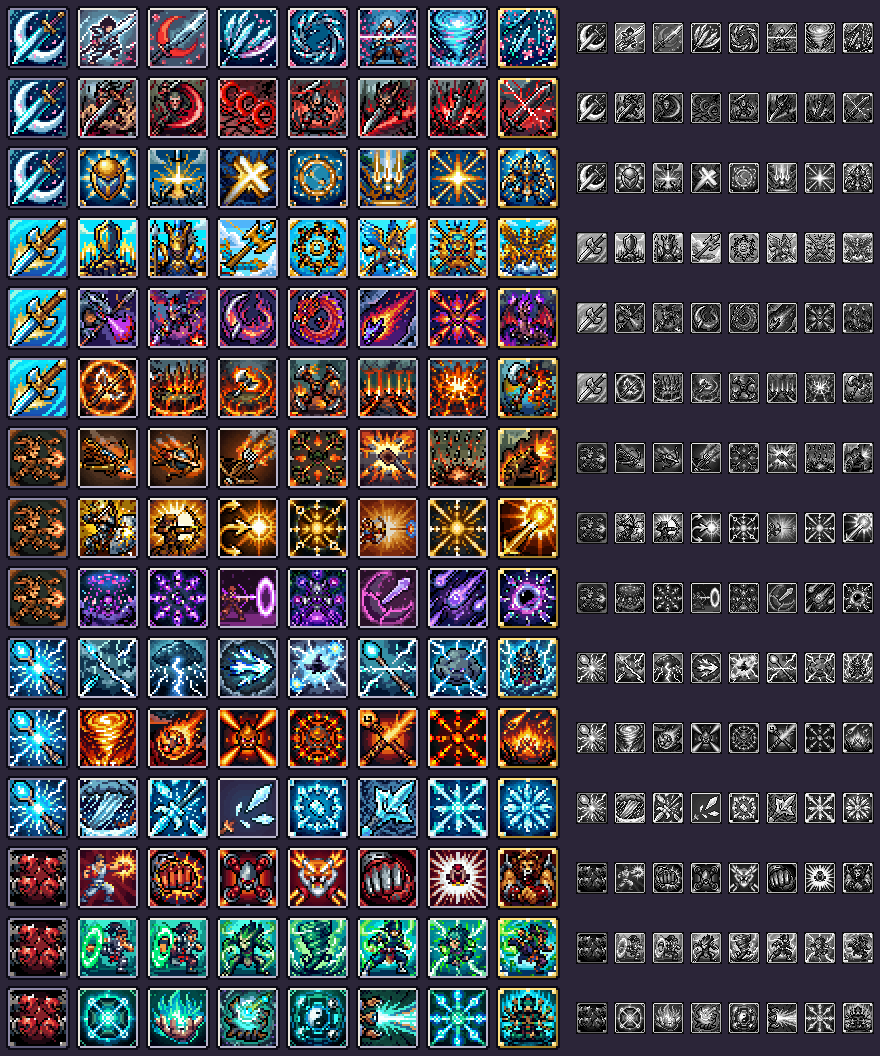
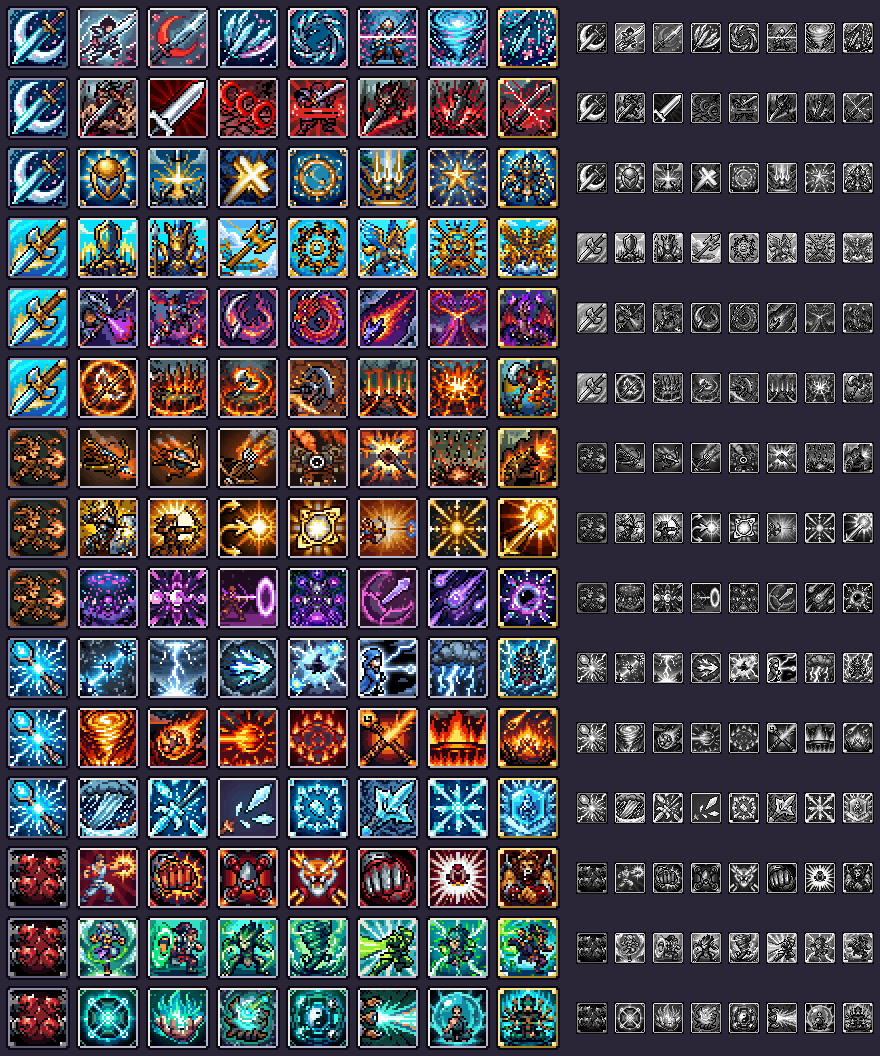
스킬 카드 아이콘 줄기 안 비슷한 칸 다듬기 (0.29.4)
- 뇌제·대마도사·신궁·빙결·공성포수·성좌기사·차원궁사·템페스트·그랜드마스터·파천검왕·전쟁군주·용황 19칸을 구도 지정 프롬프트로 다시 뽑음
- pixel-critic 재검수 pass (평균 약 3.8), PixelLab 25회 (작업 합 175)

diff --git a/src/data.js b/src/data.js
@@ -13,7 +13,7 @@ const RETURN_SPEED = 80;
 const MOB_GAP = 170;              // 한 바퀴(스테이지)에 깔리는 일반 몬스터 간격(px)
 const SAVE_KEY = 'knight-bar-save-v1';
 // 게임 버전. 캠프 창 탭 줄 오른쪽 끝에 나온다. 게임 업데이트를 푸시할 때 올린다.
-const GAME_VERSION = '0.29.3';
+const GAME_VERSION = '0.29.4';
 // 시즌7 기능 스위치. false 면 배포 주소(GitHub Pages·Electron 등)에서는 꺼져 있고, 로컬 개발 주소(localhost·127.0.0.1·*.localhost·*.test, 봇의 가짜 location 포함)에서만 켜진다.
 //  아래 DEV_HOST(배속용)와 달리 file: 은 넣지 않는다 — Electron 앱이 파일로 열 때 플레이어에게 켜지지 않게.
 //  시즌7 정식 공개 때 true 로 바꾼다.

diff --git a/dev/skill-icons/prompts.py b/dev/skill-icons/prompts.py
@@ -35,9 +35,9 @@ SK = {
     'sk-thousandCuts': ('swordsaint', 'ult', 'a thousand swords raining down from the sky among swirling cherry blossom petals, epic'),
     # 파천검왕
     'sk-ramCharge': ('tyrant', 'gale', 'a giant greatsword dragged on the ground, charging forward with dust and an upward slash'),
-    'sk-wideCleave': ('tyrant', 'iaido', 'a huge greatsword swinging in a wide horizontal red cleave arc'),
+    'sk-wideCleave': ('tyrant', 'iaido', 'a huge bright silver greatsword blade swinging in a wide horizontal arc with a bright red trail, bright highlights'),
     'sk-ty_wave': ('tyrant', 'wave', 'three tall red crescent shaped shockwaves rolling from left to right across cracked ground, side view'),
-    'sk-ty_whirl': ('tyrant', 'whirl', 'a warrior spinning like a top with a greatsword, red slash ring and cracked ground'),
+    'sk-ty_whirl': ('tyrant', 'whirl', 'a dark armored warrior seen from the front holding a greatsword out, spinning, a bright red horizontal ring of light around his waist'),
     'sk-ty_flash': ('tyrant', 'flash', 'a greatsword point charging straight ahead leaving a long line of fire on the ground'),
     'sk-ty_storm': ('tyrant', 'storm', 'a shadow greatsword plunged into the ground with red shock cones exploding outward'),
     'sk-skyBreak': ('tyrant', 'ult', 'a colossal greatsword splitting the sky in two, red lightning cracks, epic'),
@@ -47,7 +47,7 @@ SK = {
     'sk-ar_wave': ('archon', 'wave', 'one glowing golden cross of light flying to the right with a long light trail, side view'),
     'sk-ar_whirl': ('archon', 'whirl', 'a ring of holy light circling with small stars orbiting along it'),
     'sk-ar_flash': ('archon', 'flash', 'three vertical golden light pillars falling from the sky onto the ground in a row, side view'),
-    'sk-ar_storm': ('archon', 'storm', 'a big star exploding with small stars flying out in all directions'),
+    'sk-ar_storm': ('archon', 'storm', 'a big five pointed golden star in the night sky with small shooting stars falling down from it'),
     'sk-starJudgment': ('archon', 'ult', 'a giant constellation knight figure made of stars descending from the heavens, epic'),
     # 천마장군
     'sk-shieldWall': ('skyGeneral', 'gale', 'a tall tower shield planted in the ground as a glowing barrier wall'),
@@ -63,13 +63,13 @@ SK = {
     'sk-dl_wave': ('dragonlord', 'wave', 'a fiery crescent dragon fang snaking forward like a serpent'),
     'sk-dl_whirl': ('dragonlord', 'whirl', 'a segmented red fire dragon coiling in a circle'),
     'sk-dl_flash': ('dragonlord', 'flash', 'a single blazing comet shot straight across with a fire trail'),
-    'sk-dl_storm': ('dragonlord', 'storm', 'a fire dome erupting with flaming comets bursting outward into fire flowers'),
+    'sk-dl_storm': ('dragonlord', 'storm', 'a purple volcano erupting with flaming dragon heads shooting out of the crater, side view'),
     'sk-dragonEmperor': ('dragonlord', 'ult', 'a huge crowned dragon emperor rising with spread wings and purple flames, epic'),
     # 전쟁군주
     'sk-whirlwind': ('warlord', 'gale', 'a single halberd spinning in a full glowing circle, motion blur ring, seen from the front'),
     'sk-earthSplitter': ('warlord', 'iaido', 'side view of the ground splitting open with jagged rock spikes erupting upward in a row, a halberd stuck in the ground at left'),
     'sk-wl_wave': ('warlord', 'wave', 'one spinning axe blade flying horizontally to the right with a curved motion trail'),
-    'sk-wl_whirl': ('warlord', 'whirl', 'an iron wheel of axe blades with afterimages spinning'),
+    'sk-wl_whirl': ('warlord', 'whirl', 'a big iron cartwheel made of axe blades rolling to the right on the ground, sparks flying, side view'),
     'sk-wl_flash': ('warlord', 'flash', 'a crack running across the ground with lava geysers erupting in a row'),
     'sk-wl_storm': ('warlord', 'storm', 'a round shockwave ring on the ground with rock slabs thrust up around its edge, seen from above'),
     'sk-worldBreaker': ('warlord', 'ult', 'a giant war hammer smashing the world, the earth shattering into pieces with lava, epic'),
@@ -77,7 +77,7 @@ SK = {
     'sk-boltStorm': ('siegeMaster', 'gale', 'a big repeating crossbow seen from the side with a round revolving drum magazine, bolts shooting out to the right'),
     'sk-blastBolt': ('siegeMaster', 'iaido', 'a fat crossbow bolt with a round black bomb strapped to it, fuse burning, flying to the right'),
     'sk-sm_wave': ('siegeMaster', 'wave', 'three crossbow bolts with gunpowder smoke trails flying upward to the right in a spread'),
-    'sk-sm_whirl': ('siegeMaster', 'whirl', 'small ballista turrets placed in a circle around firing bolts'),
+    'sk-sm_whirl': ('siegeMaster', 'whirl', 'a small wooden ballista turret seen from the side shooting a bolt, with two more turrets behind it'),
     'sk-sm_flash': ('siegeMaster', 'flash', 'side view of one huge siege bolt flying to the right and smashing through a stone brick wall, bricks flying'),
     'sk-sm_storm': ('siegeMaster', 'storm', 'a rain of iron bolts falling from the sky and exploding on the ground'),
     'sk-siegeBarrage': ('siegeMaster', 'ult', 'a giant siege cannon firing a massive barrage with huge flames, epic'),
@@ -85,33 +85,33 @@ SK = {
     'sk-armorPiercer': ('deadeye', 'gale', 'a fully drawn bow shooting an arrow that shatters a steel armor plate'),
     'sk-headshot': ('deadeye', 'iaido', 'a kneeling archer seen from the side aiming a drawn bow, calm and focused'),
     'sk-de_wave': ('deadeye', 'wave', 'three golden arrows curving like bent paths from the left and meeting at one bright point on the right'),
-    'sk-de_whirl': ('deadeye', 'whirl', 'a ring of golden arrows flying in a circle around an archer silhouette, seen from above'),
+    'sk-de_whirl': ('deadeye', 'whirl', 'three golden arrows chasing each other around a circular glowing orbit track, seen from above, no explosion'),
     'sk-de_flash': ('deadeye', 'flash', 'an archer drawing a bow at the left with a long thin golden aiming line stretching to a small target on the right'),
     'sk-de_storm': ('deadeye', 'storm', 'a small sun in the sky with light arrows shooting out in all directions'),
     'sk-sunArrow': ('deadeye', 'ult', 'a giant golden arrow flying upward diagonally piercing a huge blazing sun at the top right'),
     # 차원궁사
     'sk-starfall': ('voidArcher', 'gale', 'a magic circle in the sky raining down starlight arrows'),
-    'sk-homingBolts': ('voidArcher', 'iaido', 'six magic missiles curving in arcs from a magic circle'),
+    'sk-homingBolts': ('voidArcher', 'iaido', 'side view, three small purple glowing orbs flying in a wavy line one behind another like a snake, toward the right'),
     'sk-va_wave': ('voidArcher', 'wave', 'an archer silhouette at the left shooting a purple arrow into a single swirling purple portal on the right, side view'),
     'sk-va_whirl': ('voidArcher', 'whirl', 'void orbs orbiting above a purple magic circle'),
     'sk-va_flash': ('voidArcher', 'flash', 'a dark purple crescent shaped crack in the air like torn paper, glowing edges, one arrow flying through it'),
     'sk-va_storm': ('voidArcher', 'storm', 'purple meteors falling from a dimensional crack in the sky'),
     'sk-dimensionCollapse': ('voidArcher', 'ult', 'a black hole collapsing space with shattered glass-like dimension shards, epic'),
     # 뇌제
-    'sk-chainLightning': ('thunderEmperor', 'gale', 'a lightning bolt jumping between three points in a zigzag chain'),
-    'sk-thunderstorm': ('thunderEmperor', 'iaido', 'a massive lightning bolt striking down from a dark cloud'),
+    'sk-chainLightning': ('thunderEmperor', 'gale', 'three small enemy silhouettes in a row connected by one bright zigzag lightning chain jumping from one to the next, side view'),
+    'sk-thunderstorm': ('thunderEmperor', 'iaido', 'one single giant vertical lightning bolt striking the ground from the top, bright white impact flash at the bottom'),
     'sk-te_wave': ('thunderEmperor', 'wave', 'three short jagged lightning arrows flying horizontally to the right, side view'),
     'sk-te_whirl': ('thunderEmperor', 'whirl', 'three glowing electric balls orbiting around a wizard silhouette in an oval path, side view'),
-    'sk-te_flash': ('thunderEmperor', 'flash', 'one horizontal lightning beam shot across the frame from a staff tip'),
-    'sk-te_storm': ('thunderEmperor', 'storm', 'a dark thundercloud with lightning bolts spraying in all directions'),
+    'sk-te_flash': ('thunderEmperor', 'flash', 'side view of a wizard in a blue robe standing at the left edge, a thin straight horizontal electric line from his hand to the right edge, mostly dark empty sky'),
+    'sk-te_storm': ('thunderEmperor', 'storm', 'a dark round thundercloud at the top with rain and four lightning bolts falling down, side view'),
     'sk-thunderJudgment': ('thunderEmperor', 'ult', 'a thunder god emperor silhouette in the storm clouds raising lightning, epic'),
     # 대마도사
     'sk-flameVortex': ('archmage', 'gale', 'a tall spiral fire tornado rising from the ground, side view'),
     'sk-meteor': ('archmage', 'iaido', 'a huge flaming meteor crashing down from the sky'),
-    'sk-am_wave': ('archmage', 'wave', 'comet-like fireballs thrown in arcs'),
-    'sk-am_whirl': ('archmage', 'whirl', 'a ring of fire flowers circling over a magic circle'),
+    'sk-am_wave': ('archmage', 'wave', 'side view, one big round fireball with a long flame tail flying from left to right over the ground, mostly empty dark sky'),
+    'sk-am_whirl': ('archmage', 'whirl', 'a glowing red magic circle on the ground seen in perspective with a ring of small flames standing on its edge'),
     'sk-am_flash': ('archmage', 'flash', 'a thick fire beam shooting straight across from a staff'),
-    'sk-am_storm': ('archmage', 'storm', 'rows of fire flowers spreading outward in all directions'),
+    'sk-am_storm': ('archmage', 'storm', 'side view of flat ground with a wide wall of tall flames burning along the whole bottom half, dark sky above'),
     'sk-apocalypse': ('archmage', 'ult', 'a world ending firestorm, burning sky with falling meteors, epic'),
     # 빙결의 군주
     'sk-blizzard': ('frostlord', 'gale', 'a dark cloud above heavy diagonal falling snow and wind, ground covered in frost'),
@@ -120,7 +120,7 @@ SK = {
     'sk-fl_whirl': ('frostlord', 'whirl', 'pale ice crystals orbiting over a frost ring'),
     'sk-fl_flash': ('frostlord', 'flash', 'one enormous ice spear flying horizontally to the right, frost trail behind it'),
     'sk-fl_storm': ('frostlord', 'storm', 'blizzard bursts spreading out in all directions with frost blooming at the ends'),
-    'sk-absoluteZero': ('frostlord', 'ult', 'everything frozen solid, a giant ice crystal flower freezing time, epic'),
+    'sk-absoluteZero': ('frostlord', 'ult', 'a knight frozen inside a giant block of clear blue ice, frost cracks on the ground'),
     # 챔피언
     'sk-ironRush': ('champion', 'gale', 'a boxer seen from the side throwing a rapid flurry of punches to the right, many fist afterimages in a horizontal row'),
     'sk-crushFist': ('champion', 'iaido', 'one massive glowing fist punch with a shockwave crater'),
@@ -130,11 +130,11 @@ SK = {
     'sk-ch_storm': ('champion', 'storm', 'a boxer seen from above slamming a fist into the ground, a bright white shockwave ring spreading on the floor'),
     'sk-kingFist': ('champion', 'ult', 'a giant lion spirit roaring behind a golden fist, epic'),
     # 템페스트
-    'sk-spinKick': ('tempest', 'gale', 'a spinning roundhouse kick leg with a circular wind trail'),
+    'sk-spinKick': ('tempest', 'gale', 'a fighter seen from the front spinning on one leg with a green circular wind ring around the waist'),
     'sk-flyingKick': ('tempest', 'iaido', 'a flying kick foot slicing through the wind'),
     'sk-tp_wave': ('tempest', 'wave', 'spiral kick arcs of wind flying forward'),
     'sk-tp_whirl': ('tempest', 'whirl', 'a tornado pillar with kicking legs inside it'),
-    'sk-tp_flash': ('tempest', 'flash', 'a lightning fast kick dash leaving afterimages across the frame'),
+    'sk-tp_flash': ('tempest', 'flash', 'side view of a green blurred fighter silhouette dashing horizontally to the right with a long green speed trail, low to the ground'),
     'sk-tp_storm': ('tempest', 'storm', 'a spinning kick with wind wedges spreading in all directions'),
     'sk-heavenWind': ('tempest', 'ult', 'a giant leg kick of heavenly wind with swirling leaves and clouds, epic'),
     # 그랜드마스터
@@ -143,7 +143,7 @@ SK = {
     'sk-gm_wave': ('grandmaster', 'wave', 'three small glowing qi orbs with comet tails flying to the right from an open hand at the left'),
     'sk-gm_whirl': ('grandmaster', 'whirl', 'yin yang energy orbs circling with stacked qi rings'),
     'sk-gm_flash': ('grandmaster', 'flash', 'two hands pushed forward at the left firing a thick horizontal qi beam to the right, side view'),
-    'sk-gm_storm': ('grandmaster', 'storm', 'a qi dome expanding with energy orbs bursting in all directions'),
+    'sk-gm_storm': ('grandmaster', 'storm', 'a glowing teal dome of energy over a meditating monk on the ground, seen from the side'),
     'sk-qiGodDescent': ('grandmaster', 'ult', 'a giant meditating qi god with many arms descending in glowing light, epic'),
 }
 TIER = {'slash': 1, 'gale': 2, 'iaido': 2, 'wave': 2, 'whirl': 2, 'flash': 2, 'storm': 2, 'ult': 3}
@@ -151,4 +151,4 @@ TIER = {'slash': 1, 'gale': 2, 'iaido': 2, 'wave': 2, 'whirl': 2, 'flash': 2, 's
 def prompt(ic):
     line, slot, scene = SK[ic]
     return ('square fantasy RPG skill icon, pixel art, ' + scene + ', ' + LINE[line] +
-            ', one clear focal subject, no symmetric radial burst, avoid an X shaped composition, bold readable shapes, strong contrast, dramatic, the scene fills the entire square edge to edge, no border, no frame, no text, no UI')
+            ', one clear focal subject, no symmetric radial burst, avoid an X shaped composition, the subject is much brighter than the background, bold readable shapes, strong contrast, dramatic, the scene fills the entire square edge to edge, no border, no frame, no text, no UI')

diff --git a/dev/skill-icons/gen.py b/dev/skill-icons/gen.py
@@ -10,7 +10,7 @@ from PIL import Image
 from prompts import prompt
 RAW = os.path.join(HERE, 'raw'); os.makedirs(RAW, exist_ok=True)
 USAGE = os.path.join(HERE, 'usage.md')
-FLOOR, CAP = 74, 150
+FLOOR, CAP = 44, 180   # 2차 다듬기(2026-10-21): +30
 
 def spent():
     if not os.path.exists(USAGE): return 0.0

diff --git a/docs/specs/skill-card-icons.md b/docs/specs/skill-card-icons.md
@@ -1,6 +1,6 @@
 # 스킬 카드 아이콘 (32×32 PixelLab, 차수별 테두리)
 
-- 상태: **배포됨 0.29.3** (2026-10-21 사용자 지시로 확인 전 배포 — 일어나서 확인) (2026-10-21 사용자: "스킬카드 아이콘 해야지" — 110개 전부, PixelLab 상한 150, 차수별 테두리)
+- 상태: **배포됨 0.29.4** (0.29.3 첫 배포 → 0.29.4 줄기 안 비슷한 칸 다듬기, 2026-10-21 사용자 "이것도 지금 해") (2026-10-21 사용자: "스킬카드 아이콘 해야지" — 110개 전부, PixelLab 상한 150, 차수별 테두리)
 - 상위: [skill-redesign.md](skill-redesign.md) · [skill-mastery-s7.md](skill-mastery-s7.md) (스킬 카드) · 앞 작업 [rune-icons.md](rune-icons.md)
 - 관련 코드: `dev/skill-icons/` (`prompts.py` 장면 · `gen.py` 생성 · `frame.py` 테두리 · `build.py` 시트, `picks.json` 고른 원본, `raw/`) → `src/skin/skill-icons.png` (32×32, 16열) + `src/skin/skill-icons.css` (생성물, `.ski-<ic>` 칸 위치) · index.html (css 연결) · src/tree7-ui.js `t7SkIcon` (카드·장착 칸 4곳)
 - 검토 페이지: `dev/review/skill-icons.html`
@@ -28,9 +28,9 @@
 ## 수용 기준
 - [x] 110개 모두 그림이 있고 카드·장착 칸이 줄기마다 맞는 그림을 쓴다 — 15줄기마다 스킬 탭을 그려 `.ski` 배경 없는 것 0, 예외 0. 110개 `ski-<ic>` 규칙 전부 있음
 - [x] 차수 셋(철·은·금)이 테두리로 한눈에 갈린다, 룬과 헷갈리지 않는다 (pixel-critic: 테두리 합격)
-- [ ] 같은 줄기 7개, 줄기 사이 같은 칸이 모티프로 갈린다 (검수 시트·흑백) — **일부 미달**, 아래 "남은 일"
-- [ ] pixel-critic 검수 합격선(모든 항목 3+, 평균 3.5) — 묶음 평균 약 3.5·항목 3+ 이지만 판정 **fix** (줄기 안 비슷한 칸). 상한이 다 차서 가장 심한 6칸만 다시 뽑음
-- [x] 콘솔 에러 없음, PixelLab 합 150 이하 — **150회** (`dev/skill-icons/usage.md`)
+- [x] 같은 줄기 7개, 줄기 사이 같은 칸이 모티프로 갈린다 (검수 시트·흑백) — 2차 다듬기 뒤 재검수에서 대체로 해소 (가벼운 fix 5곳은 "남은 일")
+- [x] pixel-critic 검수 합격선(모든 항목 3+, 평균 3.5) — 1차 검수 fix(평균 약 3.5) → 2차 다듬기 뒤 **pass, 평균 약 3.8**
+- [x] 콘솔 에러 없음, PixelLab 합 150 이하 — **150회** (`dev/skill-icons/usage.md`) + 2차 다듬기 25회(사용자 지시, 상한 30) = 합 175회
 
 ## 진행 기록
 - 2026-10-21: 스펙 작성. 카드 아이콘 110개 집계(SKM_SLOTS × T7_LINES 의 `ic`), 잔량 224.
@@ -38,6 +38,9 @@
 - 2026-10-21: pixel-critic 검수 = fix (테두리 합격, 15줄 중 약 8줄에서 줄기 안 칸이 1배 흑백에서 비슷: 뇌제·챔피언 가장 심함, 공성포수·신궁·빙결·대마도사·템페스트·그랜드마스터·성좌기사·차원궁사). 남은 6회로 챔피언 연타 러시·맹호 난타·사방 권격, 뇌제 뇌전 구체, 공성포수 파성 꿰뚫기를 바꿈(신궁 관통 선회는 다시 뽑아도 폭발형이라 원래 것 유지). **합 150회, 잔량 74 (바닥 도달)**.
   - 프롬프트 교훈: 장면 아이콘은 그냥 두면 'X자 교차 무기 / 가운데 방사형 폭발'로 쏠린다. "side view, flying to the right, a figure at the left …" 처럼 **구도와 방향을 문장으로 지정**하고 "no symmetric radial burst, avoid an X shaped composition" 을 붙이면 갈린다.
 - 2026-10-21: 사용자 "자고 올 테니 웹 반영(main 푸시)까지 끝내 두고 결과만 보고" → 0.29.3 배포.
+- 2026-10-21: 사용자 "이것도 지금 해" (검수에 걸린 칸) → 2차 다듬기. 상한 30·바닥 44 로 잡음(잔량 74). 19칸 다시(19) → 13칸 채택, X자·방사형이 남은 6칸 다시(6) → 6칸 채택(유도 마탄은 아직 방사형 기운). 합 25회, 잔량 74 → 49. 재검수 pass(평균 약 3.8). 0.29.4 배포.
+  - 바꾼 칸: 뇌제 연쇄 번개·낙뢰·섬뢰·뇌운 폭풍 · 신궁 관통 선회 · 빙결 절대영도 · 대마도사 화염탄·불꽃 고리·불길 폭풍 · 공성포수 회전 포대 · 성좌기사 별빛 폭풍 · 차원궁사 유도 마탄 · 템페스트 회전 발차기·뇌정 관통각 · 그랜드마스터 기공 폭풍 · 파천검왕 대검 횡참·철퇴 회전 · 전쟁군주 전부 회전 · 용황 용염 폭풍.
+  - 어두운 줄은 "the subject is much brighter than the background" 를 공통 프롬프트에 넣어 밝혔다.
 
 ## 확인 방법
 - `preview_start knight-bar-web` (8765) → 로드 전 localStorage `knight-bar-accounts` = `{"active":"테스트","list":{"테스트":"local-test-token"}}` → `http://localhost:8765/index.html?server=http://127.0.0.1:9&guild=0`, 9초 뒤 콘솔 (줄기는 S.cls 로 바꾼다, 예 'swordsaint'·'grandmaster'):
@@ -46,12 +49,5 @@
 - 다시 굽기: `picks.json` 고친 뒤 `cd dev/skill-icons && python build.py`.
 
 ## 남은 일
-- 사용자 확인 (배포 뒤).
-- PixelLab 초기화(11월 14일 무렵) 뒤 2차 다듬기 — 검수에서 걸린 칸, 예상 약 20~30회:
-  - 뇌제: 2차 연타·한방·사방 폭발이 모두 파란 번개 지글거림 · 섬뢰가 1차 마력 폭발(지팡이)과 비슷
-  - 신궁: 관통 선회 ↔ 광휘 화살비 (둘 다 금빛 별폭발)
-  - 빙결: 눈보라 폭풍 ↔ 절대영도 (둘 다 눈꽃)
-  - 대마도사: 화염탄·불꽃 고리·불길 폭풍 (주황 방사형 셋)
-  - 공성포수: 회전 포대(X자)·어두운 갈색 덩어리 · 성좌기사 심판의 일격 ↔ 별빛 폭풍 · 차원궁사 유도 마탄 ↔ 마탄 궤도 · 템페스트 인물 자세 반복 · 그랜드마스터 기막 ↔ 기공 폭풍
-  - 어두운 줄(파천검왕·챔피언·공성포수·전쟁군주)은 흑백에서 뭉개짐 → 프롬프트에 "bright highlights, much brighter subject than background".
-  - 방법: 구도·방향을 문장으로 지정 (진행 기록 교훈). 검수 시트 `dev/skill-icons/qa-sheet.png`.
+- 사용자 확인.
+- (선택, PixelLab 초기화 뒤) 재검수의 가벼운 fix 5곳: 성좌기사 심판의 일격 ↔ 별빛 폭풍(금빛 방사) · 전쟁군주 대회전 ↔ 대지 가르기(불 고리) · 공성포수 다연장 사격·폭열탄(어두운 갈색, 흑백 약함) · 신궁 추격탄·광휘 화살비·태양 관통(금빛 광구 계열) · 템페스트 회전 발차기 ↔ 돌진 발차기(초록 인물). 약 5~10회.

diff --git a/dev/skill-icons/usage.md b/dev/skill-icons/usage.md
@@ -152,3 +152,28 @@
 | sk-te_whirl-s51 | create-image-pixen | 79.0 → 76.0 | 1.0 |
 | sk-sm_flash-s51 | create-image-pixen | 79.0 → 75.0 | 1.0 |
 | sk-de_whirl-s51 | create-image-pixen | 77.0 → 74.0 | 1.0 |
+| sk-chainLightning-s61 | create-image-pixen | 74.0 → 74.0 | 1.0 |
+| sk-te_storm-s61 | create-image-pixen | 74.0 → 73.0 | 1.0 |
+| sk-thunderstorm-s61 | create-image-pixen | 74.0 → 73.0 | 1.0 |
+| sk-te_flash-s61 | create-image-pixen | 74.0 → 72.0 | 1.0 |
+| sk-de_whirl-s61 | create-image-pixen | 74.0 → 70.0 | 1.0 |
+| sk-absoluteZero-s61 | create-image-pixen | 72.0 → 68.0 | 1.0 |
+| sk-am_wave-s61 | create-image-pixen | 72.0 → 68.0 | 1.0 |
+| sk-am_whirl-s61 | create-image-pixen | 70.0 → 67.0 | 1.0 |
+| sk-sm_whirl-s61 | create-image-pixen | 68.0 → 66.0 | 1.0 |
+| sk-spinKick-s61 | create-image-pixen | 65.0 → 65.0 | 1.0 |
+| sk-homingBolts-s61 | create-image-pixen | 67.0 → 64.0 | 1.0 |
+| sk-am_storm-s61 | create-image-pixen | 69.0 → 63.0 | 1.0 |
+| sk-ar_storm-s61 | create-image-pixen | 67.0 → 63.0 | 1.0 |
+| sk-gm_storm-s61 | create-image-pixen | 64.0 → 62.0 | 1.0 |
+| sk-wideCleave-s61 | create-image-pixen | 63.0 → 60.0 | 1.0 |
+| sk-tp_flash-s61 | create-image-pixen | 65.0 → 59.0 | 1.0 |
+| sk-ty_whirl-s61 | create-image-pixen | 63.0 → 59.0 | 1.0 |
+| sk-dl_storm-s61 | create-image-pixen | 60.0 → 57.0 | 1.0 |
+| sk-wl_whirl-s61 | create-image-pixen | 61.0 → 56.0 | 1.0 |
+| sk-te_flash-s71 | create-image-pixen | 55.0 → 54.0 | 1.0 |
+| sk-am_wave-s71 | create-image-pixen | 55.0 → 53.0 | 1.0 |
+| sk-am_storm-s71 | create-image-pixen | 55.0 → 53.0 | 1.0 |
+| sk-homingBolts-s71 | create-image-pixen | 54.0 → 52.0 | 1.0 |
+| sk-tp_flash-s71 | create-image-pixen | 53.0 → 50.0 | 1.0 |
+| sk-ty_whirl-s71 | create-image-pixen | 53.0 → 49.0 | 1.0 |

diff --git a/docs/specs/README.md b/docs/specs/README.md
@@ -86,4 +86,4 @@
 | [raid-sig-drop.md](raid-sig-drop.md) | 완료 (0.20.9) | 레이드 고유 장비 드랍률 ×3 — 처치 상자당 6~18% (세트 평균 17~50회) |
 | [bag-upgrade.md](bag-upgrade.md) | 완료 | 🎒 가방은 여관 안 별도 업그레이드: 무게 10 + 2/Lv, 최대 Lv = 여관 Lv(최대 48), 비용 = 여관 목재의 1/4, 가방 가득 귀환 때만 레드닷 |
 | [rune-icons.md](rune-icons.md) | 배포됨 (0.29.2) | 룬 25종 32×32 PixelLab 룬석 그림 (판석 14 · 별꼴 결정 4 · 금테 메달 7), 등급 = 1px 테두리 색, PixelLab 51회 |
-| [skill-card-icons.md](skill-card-icons.md) | 배포됨 (0.29.3) | 스킬 카드·장착 칸 아이콘 110개 32×32 PixelLab 장면 + 스크립트 차수 테두리(철·은·금), PixelLab 150회 · 줄기 안 비슷한 칸 다듬기는 11월 PixelLab 초기화 뒤 |
+| [skill-card-icons.md](skill-card-icons.md) | 배포됨 (0.29.4) | 스킬 카드·장착 칸 아이콘 110개 32×32 PixelLab 장면 + 스크립트 차수 테두리(철·은·금), 줄기 안 비슷한 칸 다듬기까지 PixelLab 175회, 검수 pass |
